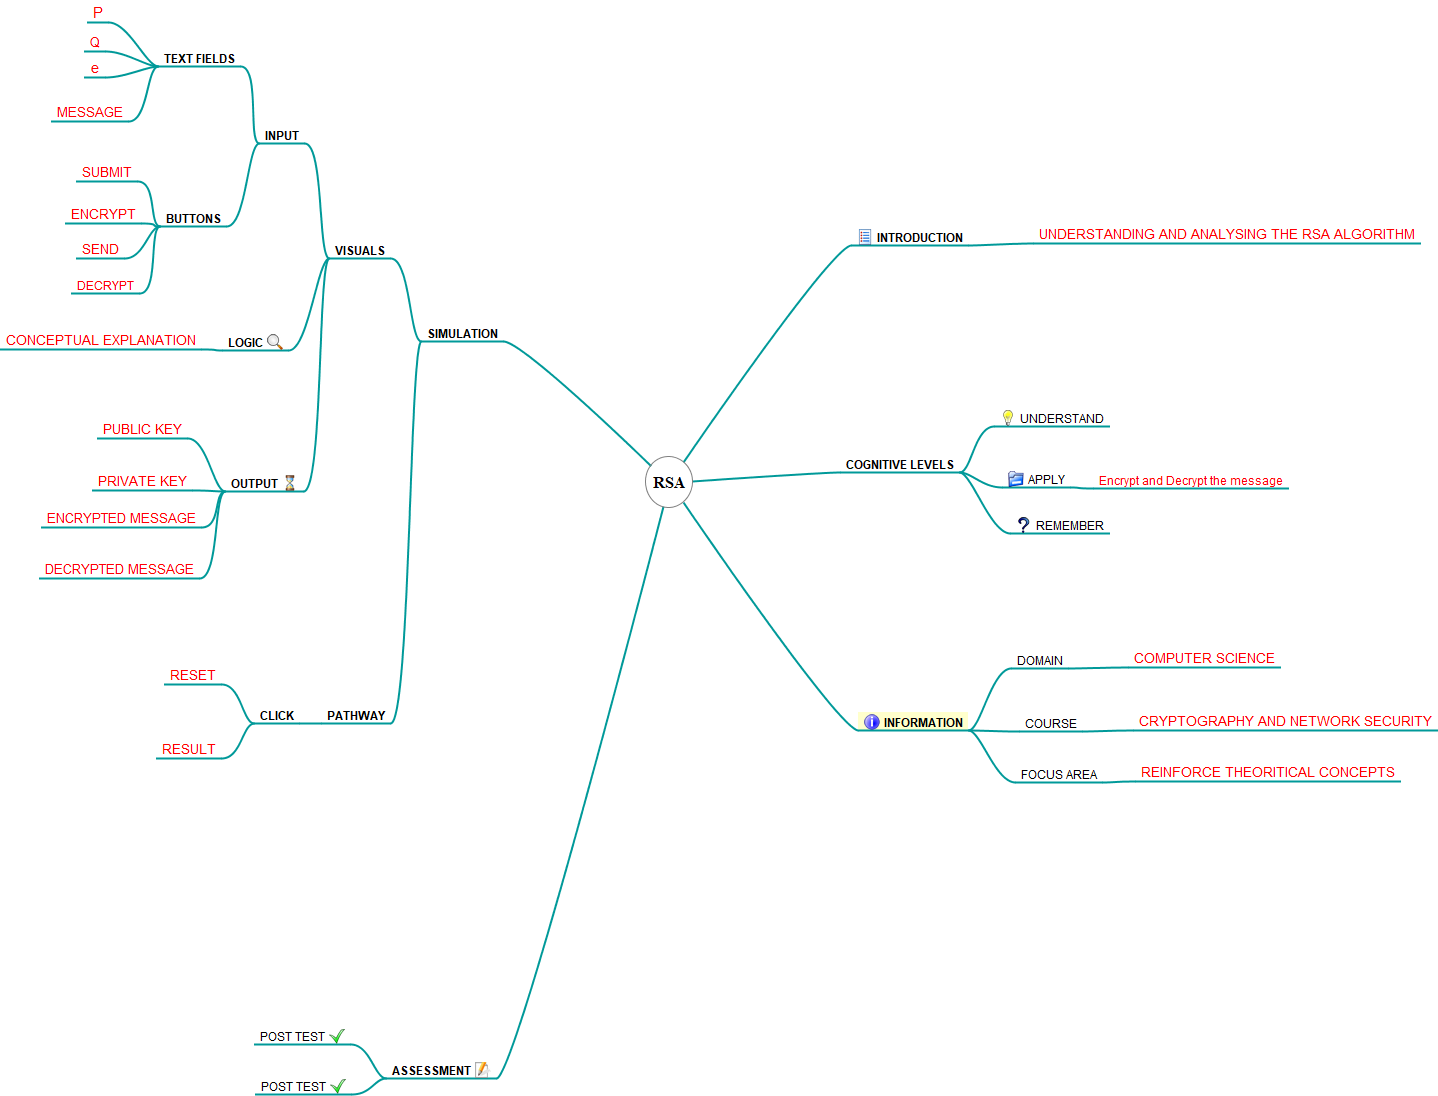
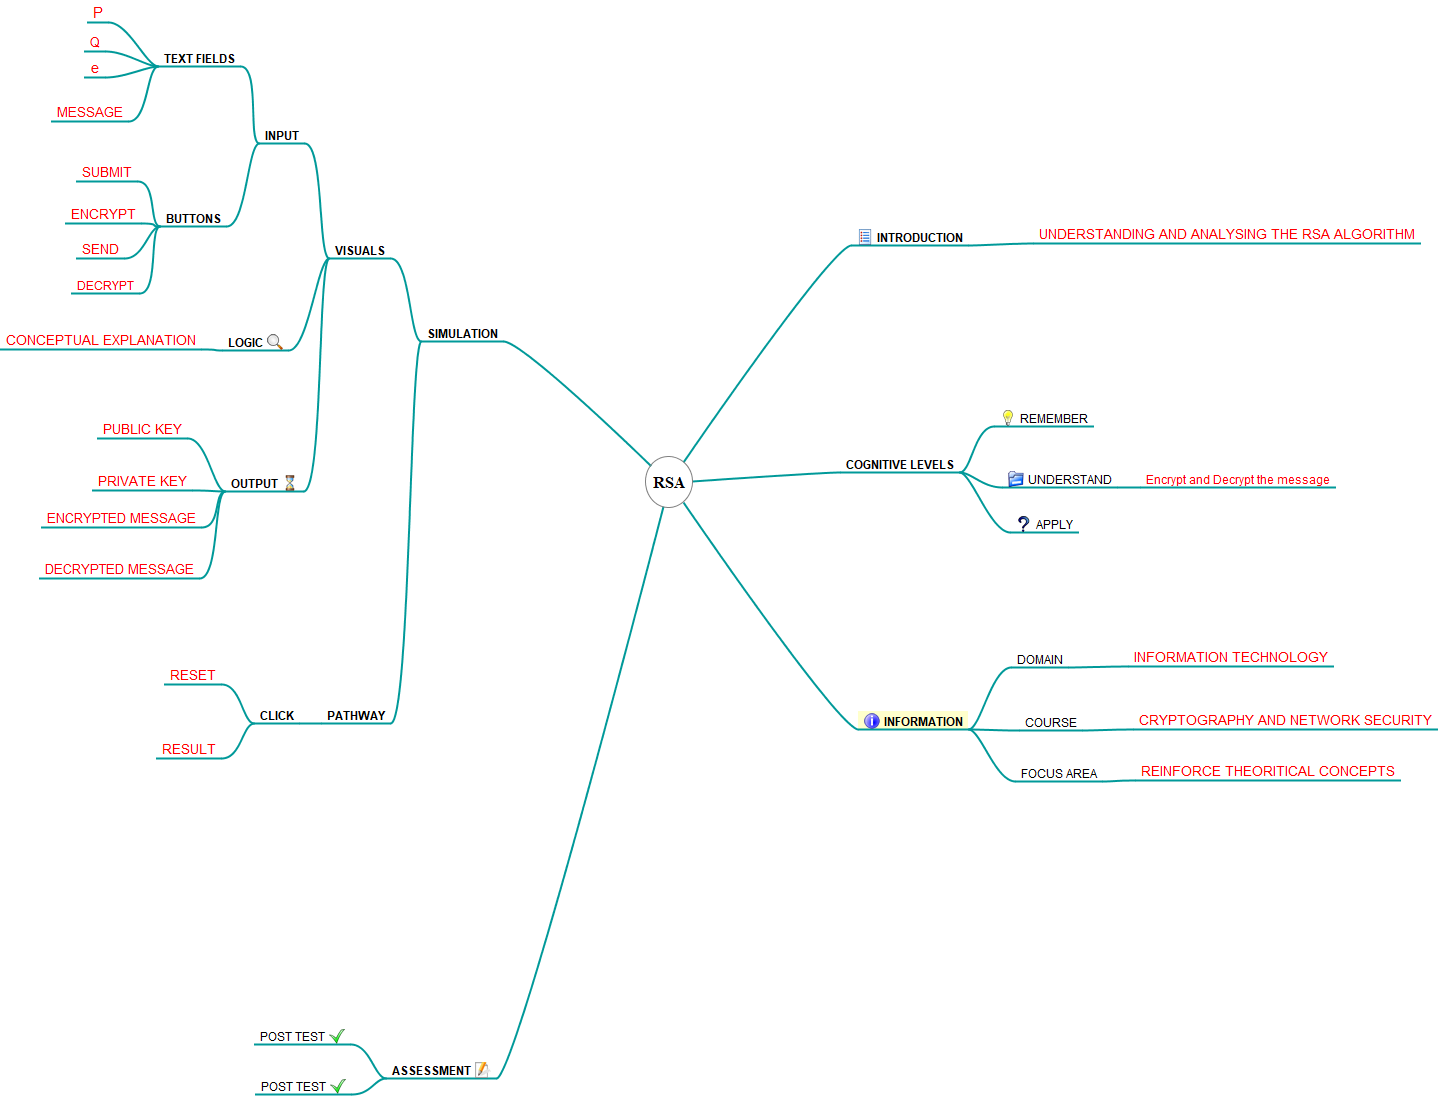
Add files via upload

diff --git a/storyboard/mindmap/mindmap.mm b/storyboard/mindmap/mindmap.mm
@@ -16,8 +16,7 @@
       UNDERSTANDING AND ANALYSING THE RSA ALGORITHM
     </p>
   </body>
-</html>
-</richcontent>
+</html></richcontent>
 <font NAME="SansSerif" SIZE="14"/>
 </node>
 </node>
@@ -95,16 +94,16 @@
 </node>
 <node CREATED="1596722647745" HGAP="147" ID="ID_1480015260" MODIFIED="1598103115852" POSITION="right" TEXT="COGNITIVE LEVELS" VSHIFT="48">
 <font BOLD="true" NAME="SansSerif" SIZE="12"/>
-<node CREATED="1596723122336" HGAP="34" ID="ID_1007104880" MODIFIED="1596723987880" TEXT="UNDERSTAND" VSHIFT="-23">
+<node CREATED="1596723122336" HGAP="34" ID="ID_1007104880" MODIFIED="1600067522188" TEXT="REMEMBER" VSHIFT="-23">
 <icon BUILTIN="idea"/>
 </node>
-<node CREATED="1596723192590" HGAP="42" ID="ID_180811275" MODIFIED="1598103056510" TEXT="APPLY" VSHIFT="15">
+<node CREATED="1596723192590" HGAP="42" ID="ID_180811275" MODIFIED="1600067552359" TEXT="UNDERSTAND" VSHIFT="15">
 <icon BUILTIN="folder"/>
-<node COLOR="#ff0000" CREATED="1596723228727" HGAP="22" ID="ID_721548319" MODIFIED="1598103728679" TEXT="Encrypt and Decrypt the message" VSHIFT="3">
+<node COLOR="#ff0000" CREATED="1596723228727" HGAP="22" ID="ID_721548319" MODIFIED="1600067555122" TEXT="Encrypt and Decrypt the message" VSHIFT="2">
 <font NAME="SansSerif" SIZE="12"/>
 </node>
 </node>
-<node CREATED="1598103044929" HGAP="50" ID="ID_920218816" MODIFIED="1598103179214" TEXT="REMEMBER" VSHIFT="22">
+<node CREATED="1598103044929" HGAP="50" ID="ID_920218816" MODIFIED="1600067573870" TEXT="APPLY" VSHIFT="22">
 <icon BUILTIN="help"/>
 </node>
 </node>
